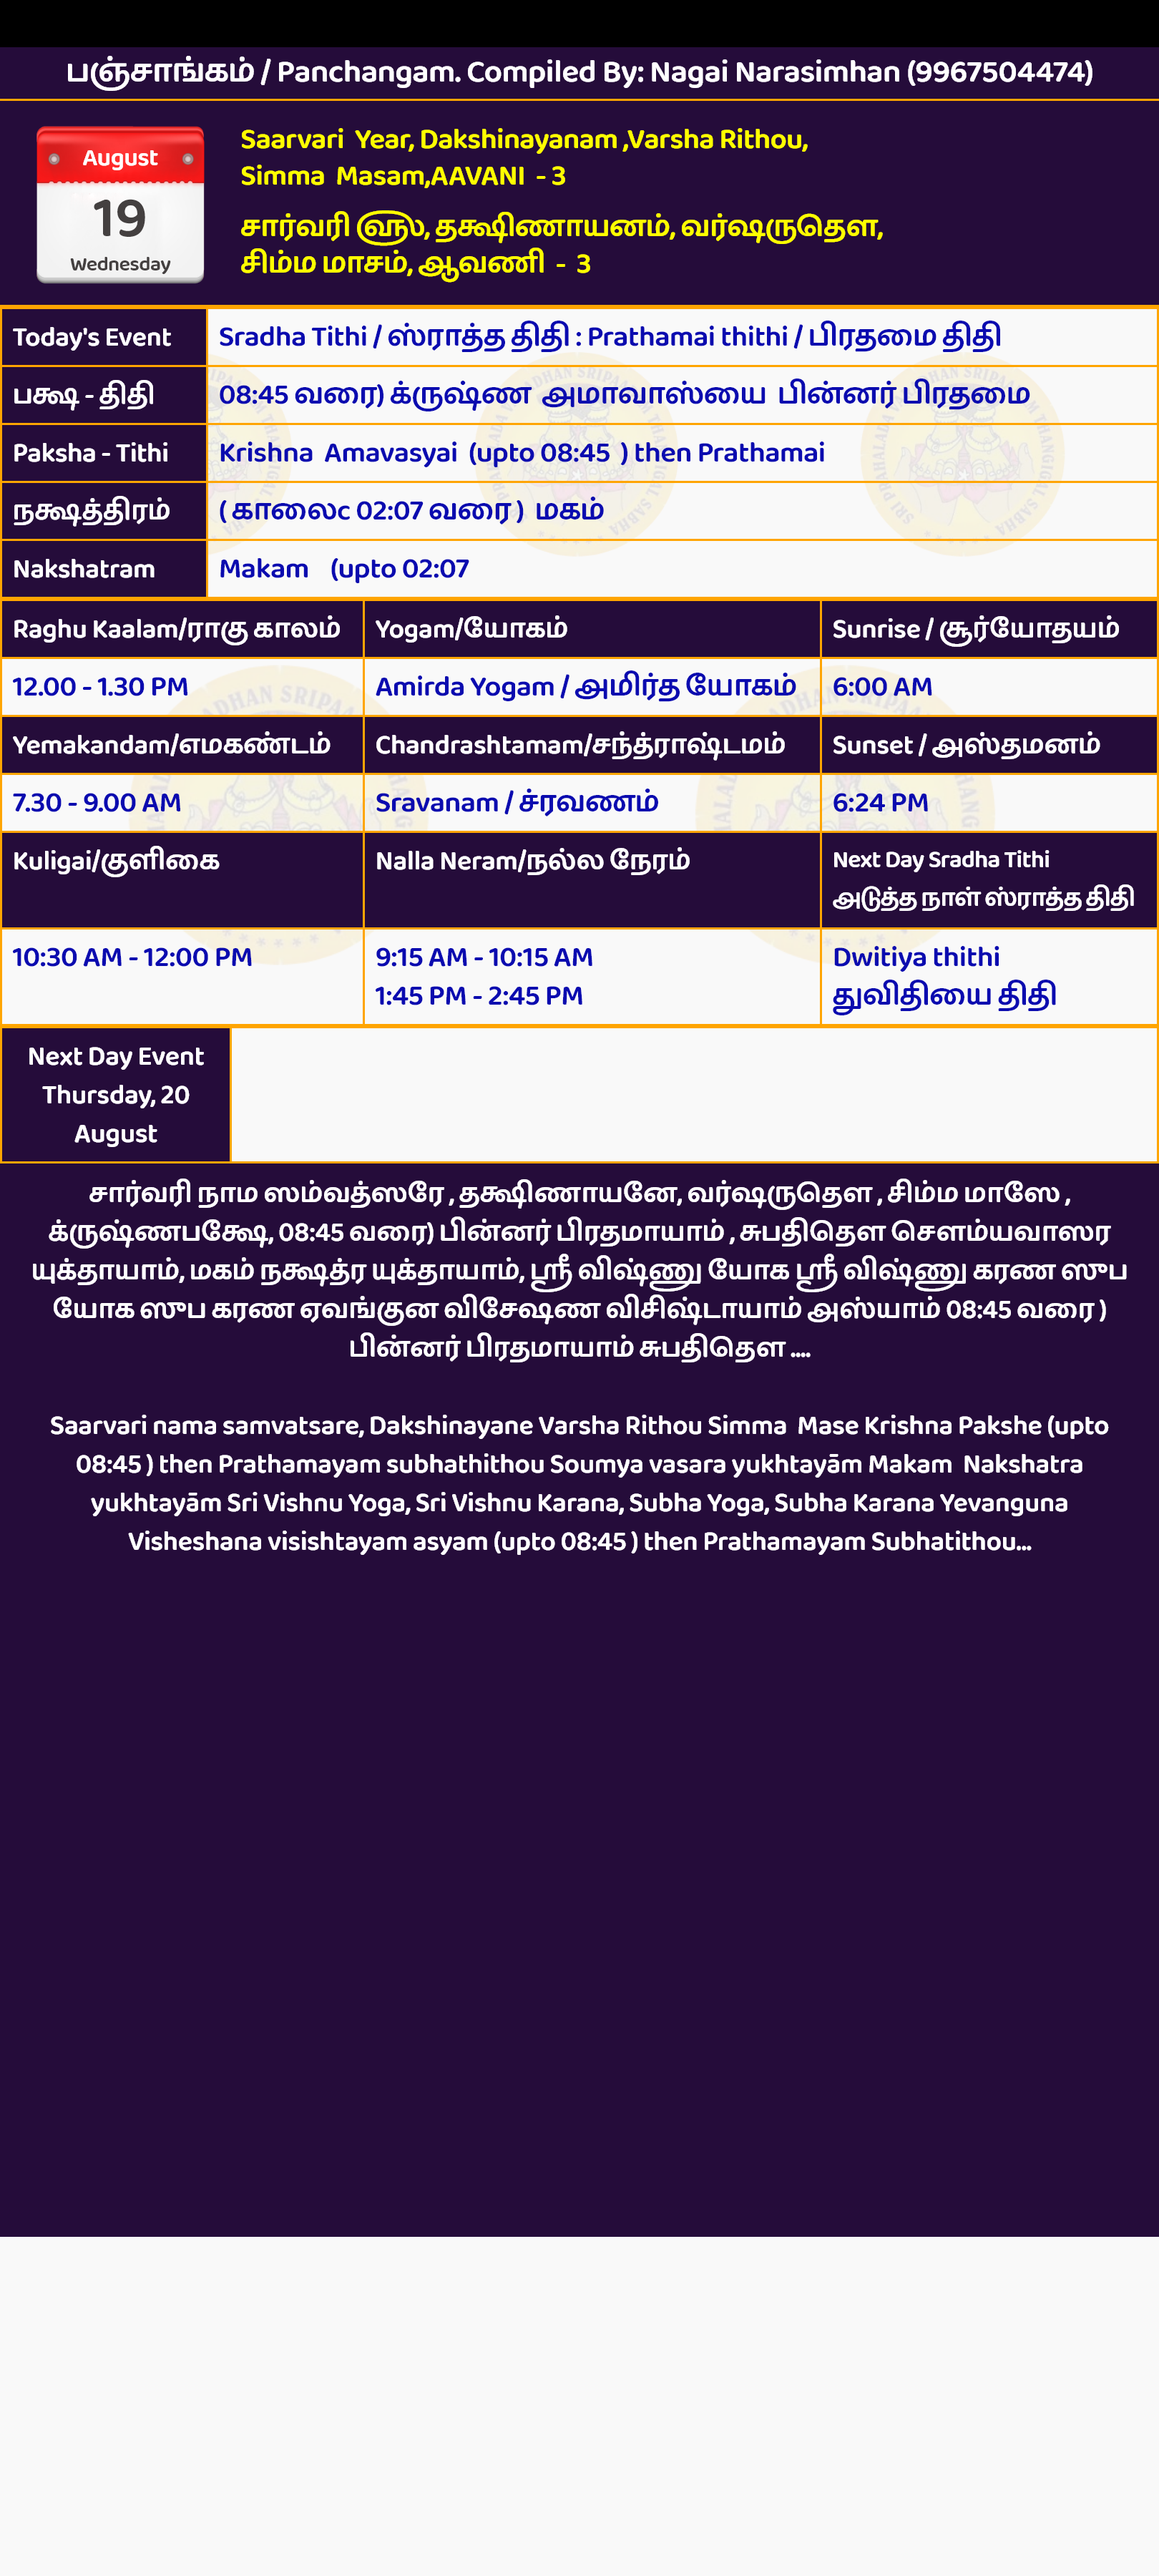
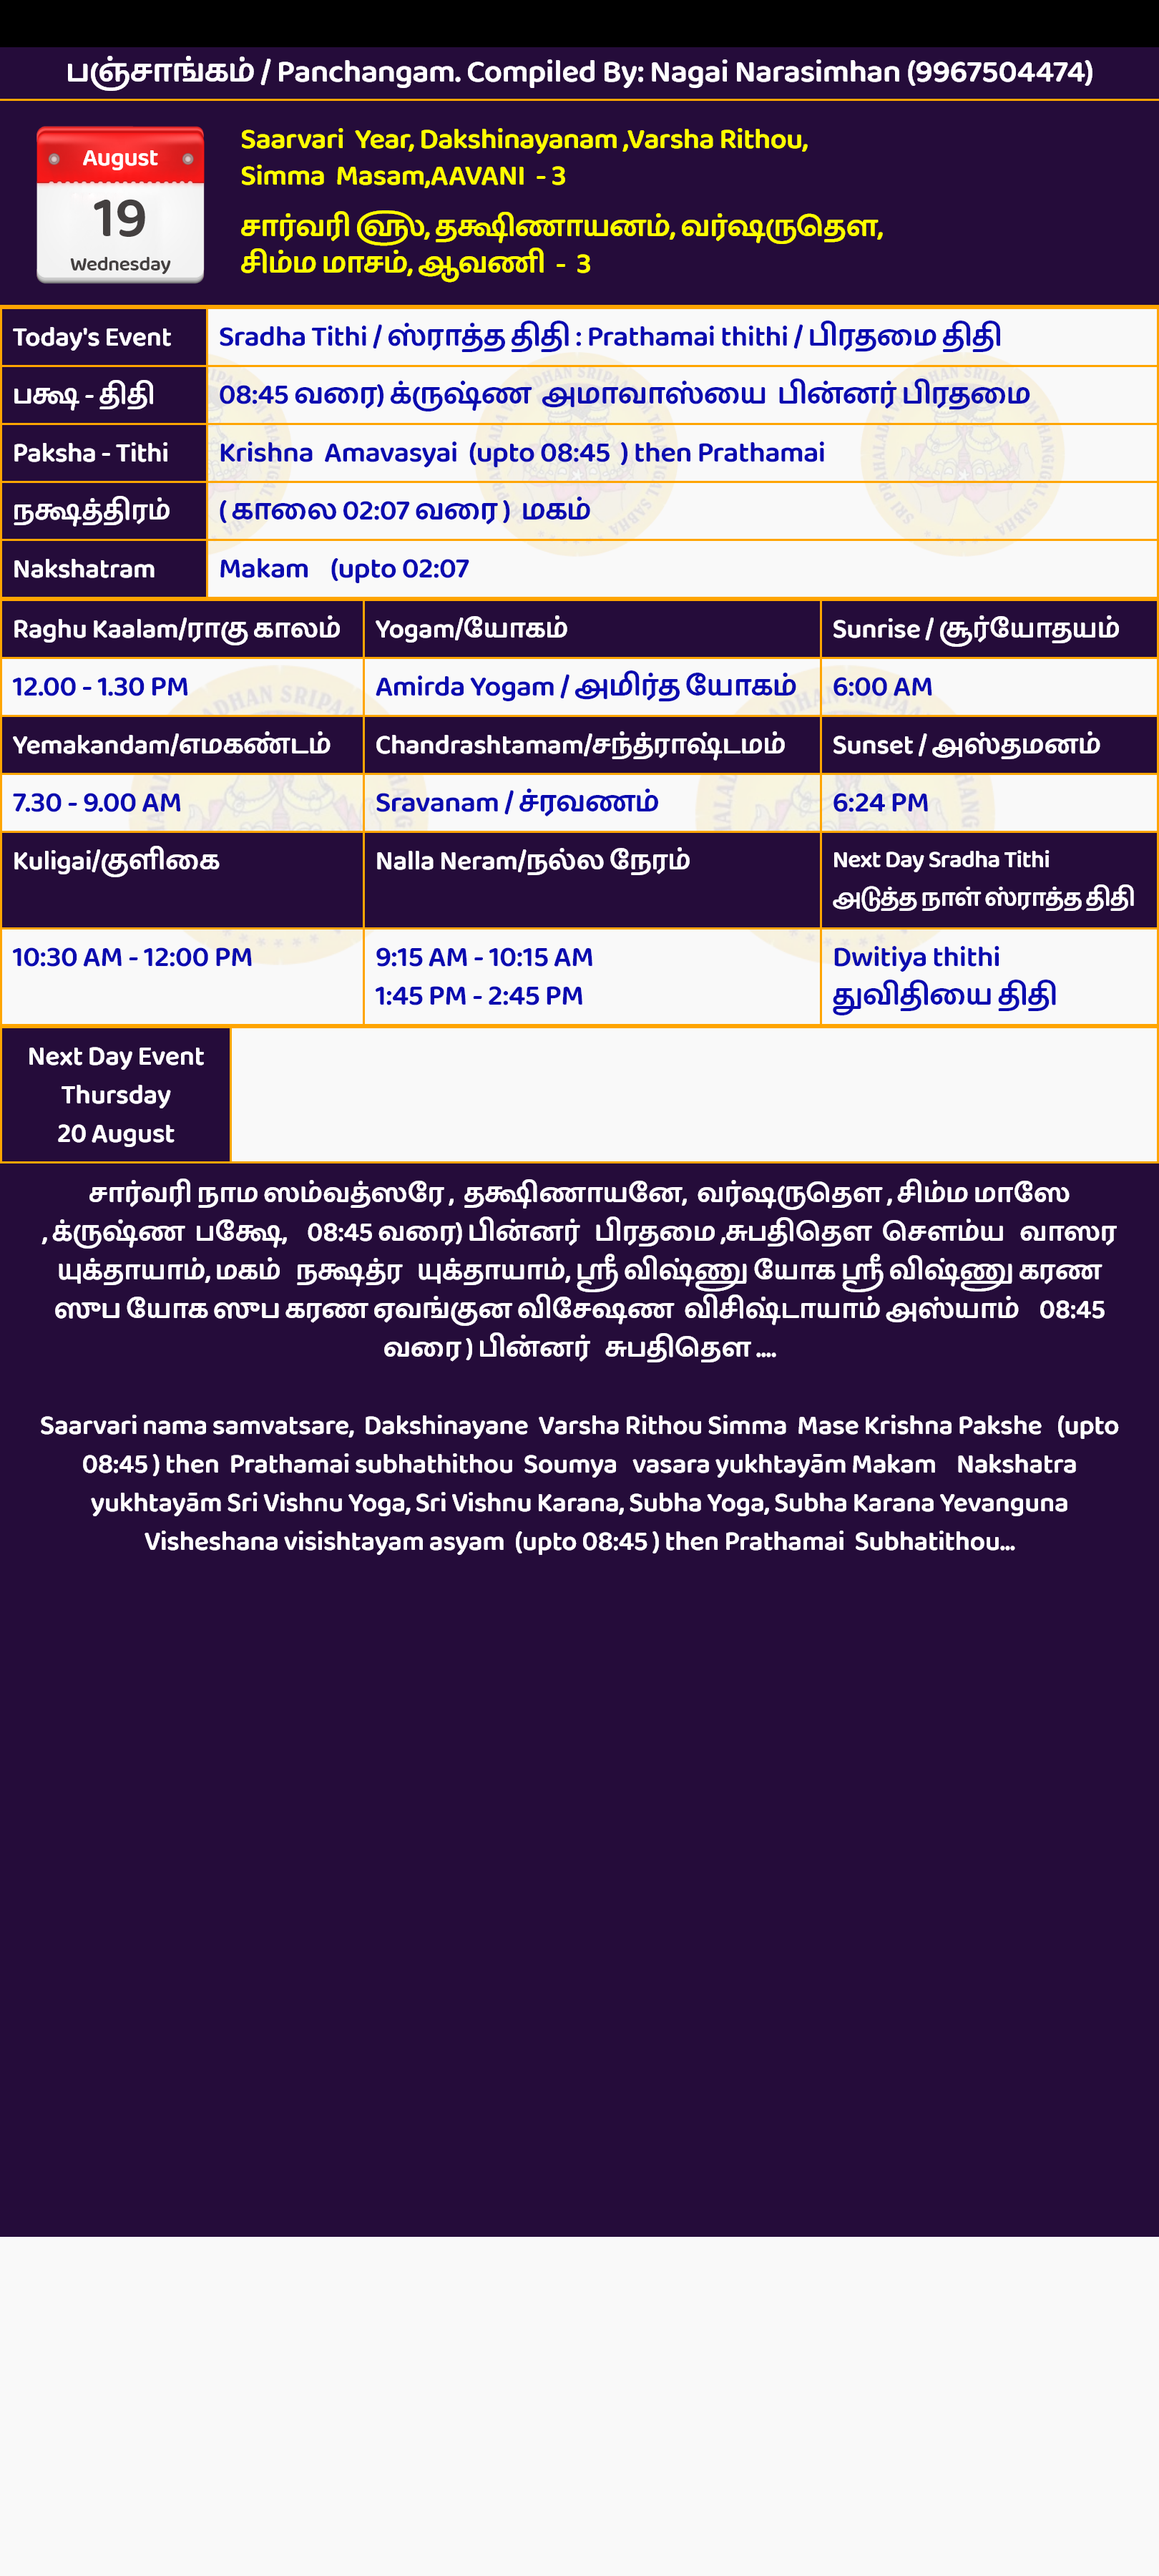
Final one

Changed region(s): [[0.0309, 0.4044, 0.9568, 0.6222], [0.3086, 0.1867, 0.5247, 0.2178]]

diff --git a/Client/src/layout/Mob.js b/Client/src/layout/Mob.js
@@ -113,8 +113,9 @@ return(
                     <td className="bg-cust">பக்ஷ - திதி</td>
                     <td className="bg-cust1">
                     {datas?.Time?.split(" ")[1] === "AM" ? " (காலை" : ""} {datas?.Time?.split(" ")[1] === "PM"  ? "( மாலை" : ""}   { datas.Time ? datas?.Time?.split(" ")[0] + " வரை) " : ""} 
-                    {datas && datas.Pakshe && (datas.Pakshe.split("/")[1].split(" ")[1])} &nbsp;
-                          {datas && datas.Tithi && (datas.Tithi.split("/")[1]).split(" ")[1] } &nbsp;                                              
+                    {datas && datas?.Pakshe && (datas?.Pakshe?.split("/")[1].split(" ")[1])} &nbsp;
+                          {datas && datas.Tithi && (datas.Tithi.split("/")[1]).split(" ")[1] } &nbsp;     
+                          {(datas?.Pakshe?.split(" ")[0].toLowerCase()[0]==='s'  && datas?.NextTithi?.split(" ")[0] === 'Prathamai') ? "க்ருஷ்ண ":"சுக்ல "}                                     
                           {datas && datas.NextTithi && `பின்னர் ${ datas.NextTithi.split("/")[1].split(" ")[1]}`}&nbsp;
                     </td>
                 </tr>
@@ -125,6 +126,7 @@ return(
                                {datas && datas.Tithi && datas.Tithi.split(" ")[0] } &nbsp;
                                {datas && `(upto ${datas.Time}`} &nbsp;
                                {datas && datas.NextTithi && ") then"}&nbsp;
+                               {(datas?.Pakshe?.split(" ")[0].toLowerCase()[0] === 'Prathamai') ?"Krishna ":"Shukla "}   
                                {datas && datas.NextTithi && datas.NextTithi.split(" ")[0] }&nbsp;
                     </td>
                 </tr>
